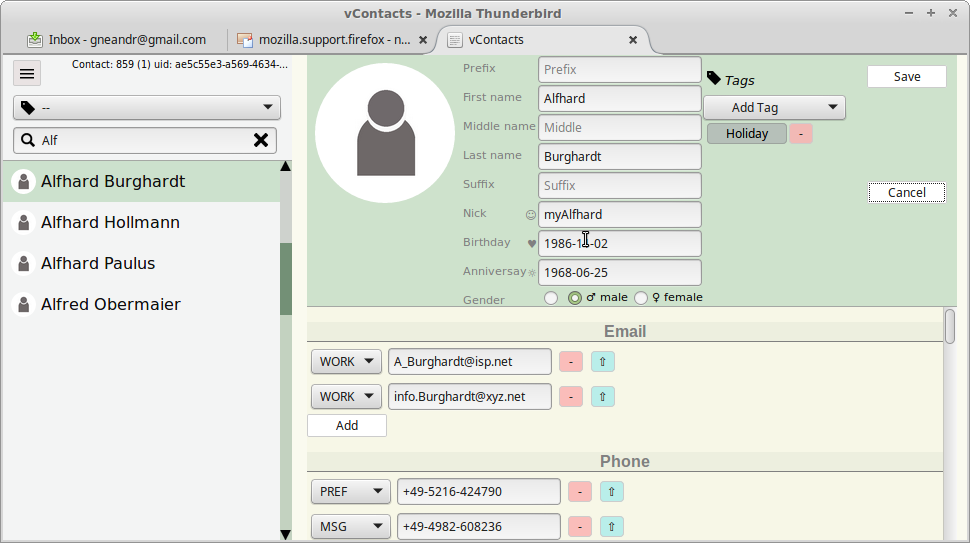
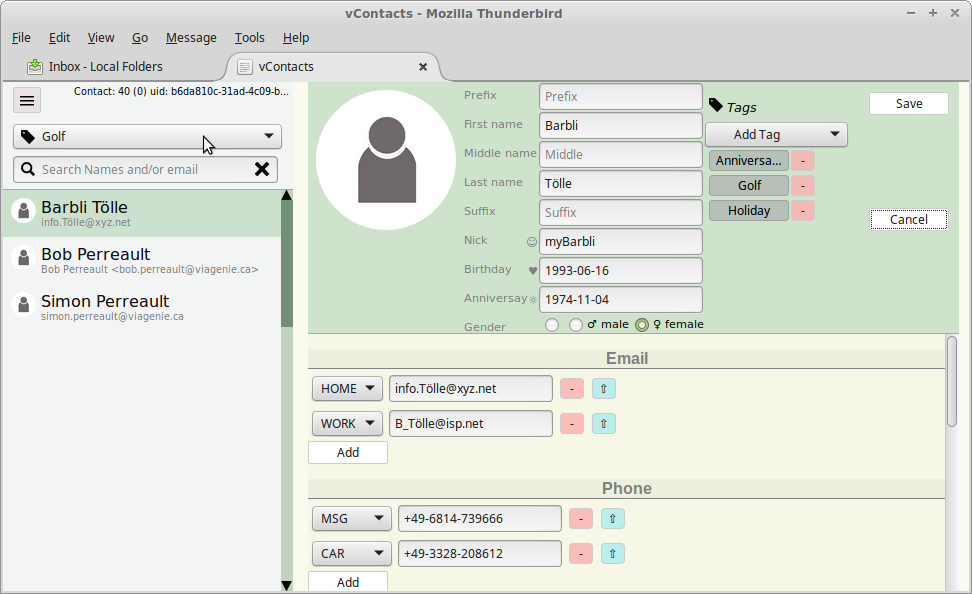
update Docs

diff --git a/docs/Readme.html b/docs/Readme.html
@@ -314,7 +314,8 @@ Also the Main Menu (Hamburger Menu) has a &#39;Add new Contact&#39;</p>
 <p>Some menu items link to project documentation and the GIT project.</p>
 <hr>
 <h4 id="vcontact-screenshots">vContact Screenshots</h4>
-<p>Next two pic show a selected contact to be displayed with it details at the right part of the window, the second picture is a contact in edit mode.</p>
+<p>Next two pictures show the addressbook with the left hand sidebar and the contact details on the right.</p>
+<p>On the sidebar the pull down menu for the tags/categories has been used to select &quot;Golf&quot; and there are three contacts matching that. The first contact is selected, the first picture shows the contact details, the second the same contact in edit mode.</p>
 <p><img src="https://neandr.github.io/vContacts/Contact_opened.png" alt="opened"></p>
 <p><img src="https://neandr.github.io/vContacts/Contact_Edit.png" alt="edit">   </p>
 <p><strong>Working with Tags/Categories</strong><br>To group contacts the Tags or Categories are used. Every contact can hold multiple tags, so it would &#39;belong&#39; to different groups, like &#39;Projects&#39; and &#39;FollowUp&#39;.</p>

diff --git a/README.md b/README.md
@@ -50,7 +50,10 @@ Some menu items link to project documentation and the GIT project.
 ----
 #### vContact Screenshots
 
-Next two pic show a selected contact to be displayed with it details at the right part of the window, the second picture is a contact in edit mode.
+Next two pictures show the addressbook with the left hand sidebar and the contact details on the right.
+
+On the sidebar the pull down menu for the tags/categories has been used to select "Golf" and there are three contacts matching that. The first contact is selected, the first picture shows the contact details, the second the same contact in edit mode.
+
 
 ![opened](https://neandr.github.io/vContacts/Contact_opened.png)
 
